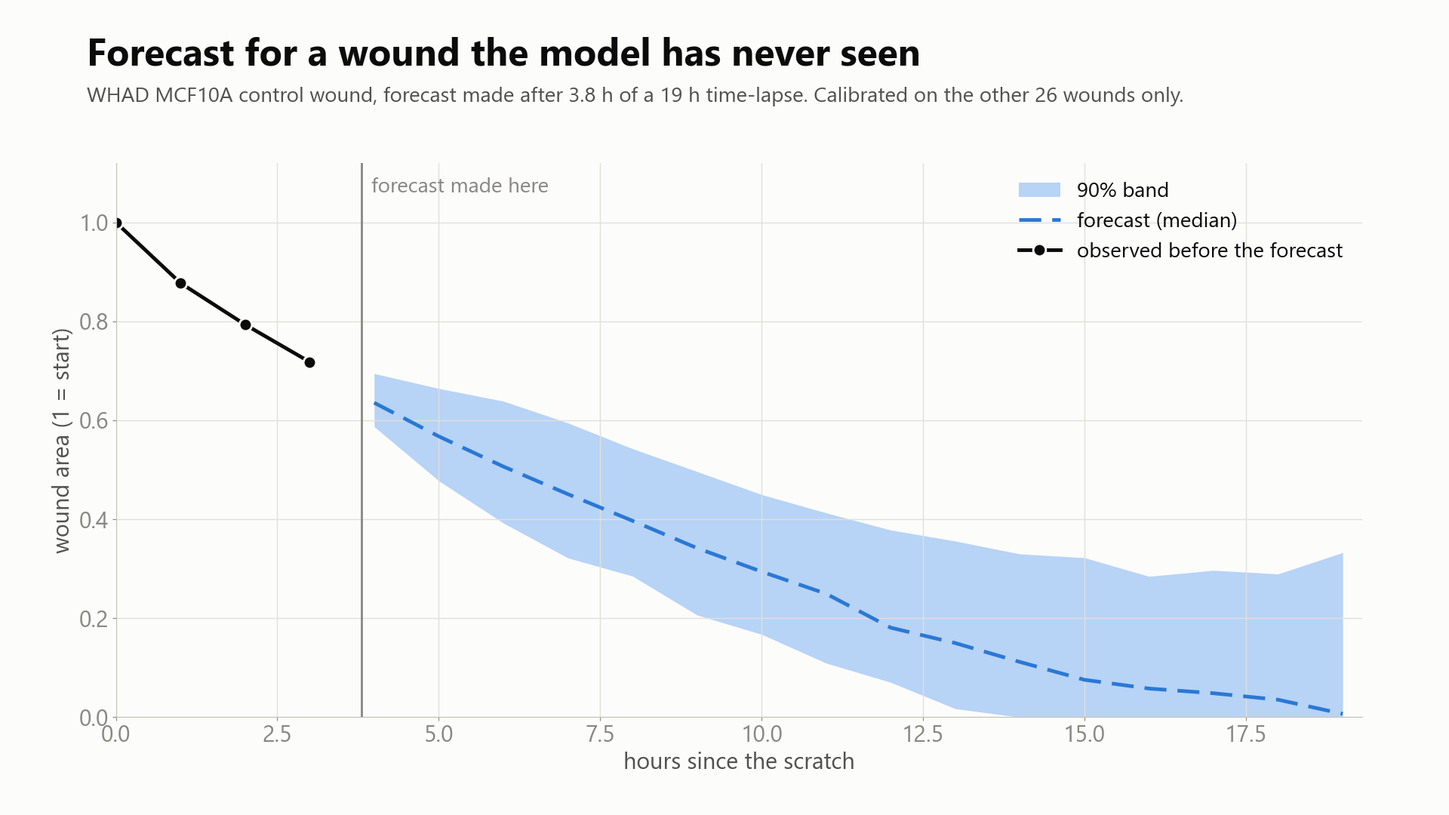
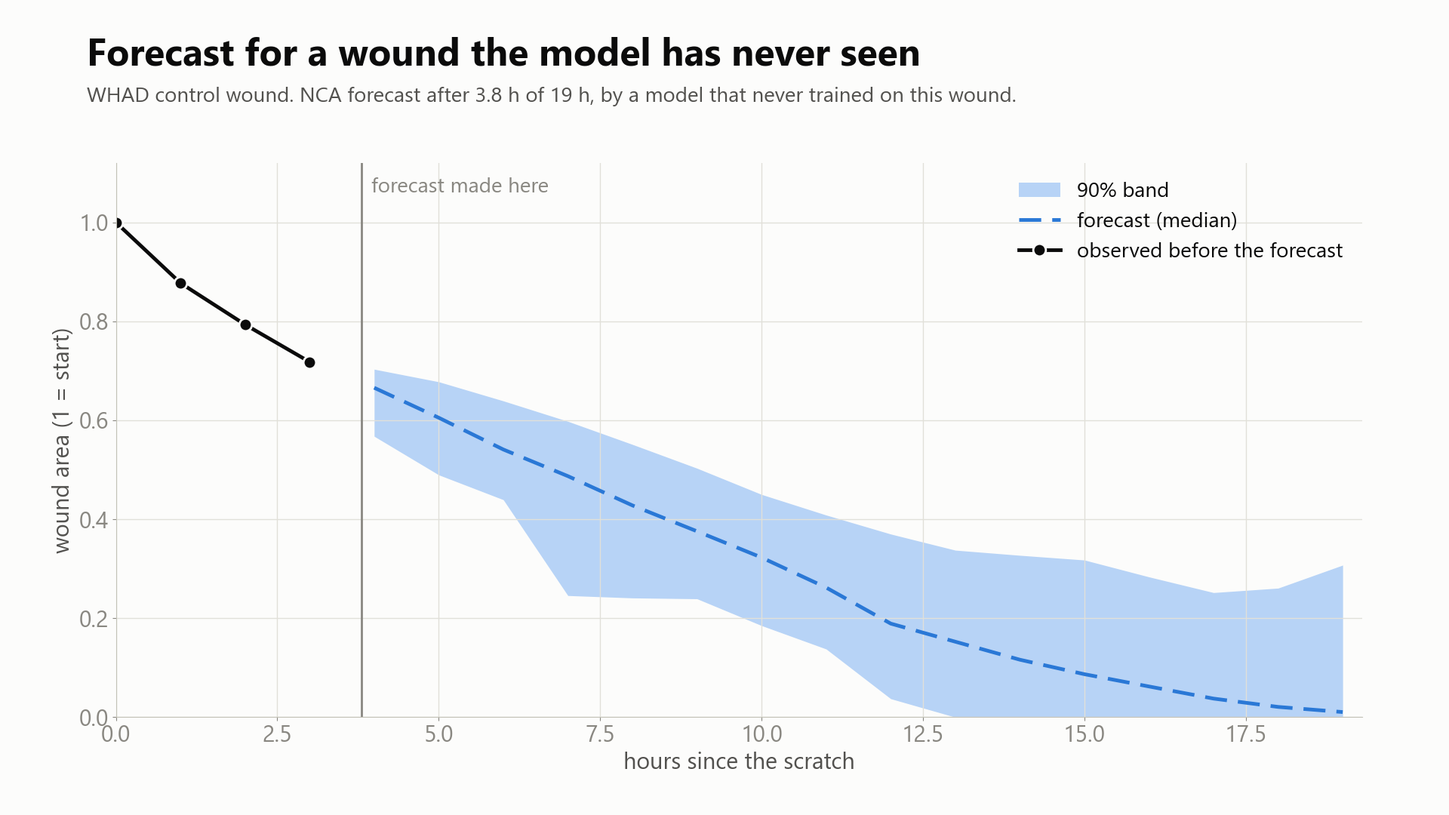
Uploads and the agent now use the real-data NCA (edge speed as fallback)
- data/upload_nca.py: original-rule simulator fit on the uploaded frames (as sim/calibrate.py), 50 members over 3 seed
  models (weights_real3_all_s*.pt; the demo sample uses the fold models that never trained on it), band from the NCA's
  own out-of-fold WHAD residuals; data/upload.py --forecaster nca (default) falls back to edge speed on any failure
- demo samples regenerated: 1/2/3 frames -> P(90% closed by 19 h) 0.13 / 0.43 / 0.77 (it closed; edge speed said 0.23)
- video figures show the shipped NCA (out-of-fold); README, Q&A, video script, design.md R29, decisions
- tests: 12 (adds the NCA upload path)

diff --git a/data/upload_nca.py b/data/upload_nca.py
@@ -1,0 +1,132 @@
+"""NCA forecaster for uploads (design.md R28 follow-up): the real-data NCA v3 behind data/upload.py.
+
+Same pipeline the gate validated (nca/forecast_realft.py), for one uploaded series:
+  params   (Tm, bias) fitted on the uploaded frames with the original simulator rule (sim/calibrate.py: 21 x 6 grid x 3
+           seeds + 50 bootstrap members); 1 frame -> prior = other WHAD wounds' 9.5 h fits
+  model    3 seed models; members split round-robin. exclude_wound set (the demo sample) -> the fold models that never
+           trained on that wound (nca/weights_real3_fold{k}_s{s}.pt); otherwise the all-wounds models (weights_real3_all_s{s}.pt)
+  start    the last uploaded mask -> lattice -> coarse density + reservoir (as in training)
+  band     leave-one-wound-out conformal with the NCA's own held-out residuals on WHAD (nca_realft3_raw files, nearest
+           gate cut-off), aligned by hours since the forecast start; the uploaded wound's own series are never in the pool
+Returns a forecast-contract doc (model nca_realft3) or raises; data/upload.py falls back to edge speed on any error.
+"""
+import json, os, sys, zlib
+import numpy as np
+
+HERE = os.path.dirname(os.path.abspath(__file__))
+ROOT = os.path.join(HERE, "..")
+sys.path[:0] = [os.path.join(ROOT, "sim"), os.path.join(ROOT, "nca"), os.path.join(ROOT, "eval")]
+UM_PER_PX = 0.454 * 4      # upload masks are at 1/4 of WHAD resolution
+HORIZON, H_LONG, N_MEM = 19.0, 100, 50
+GATE_CUTS = [1.9, 3.8, 5.7, 9.5]
+
+
+def fit_params(occ0, t, wf, seed=0):
+    """Original-rule simulator fit on the uploaded frames (needs >= 2 frames on whole hours)."""
+    import calibrate as C
+    from cellsim import Params, simulate
+    fr = np.rint(np.asarray(t) - t[0]).astype(int)
+    err = np.zeros((len(C.TM_GRID), len(C.BIAS_GRID), len(fr)))
+    for i, Tm in enumerate(C.TM_GRID):
+        for j, b in enumerate(C.BIAS_GRID):
+            for s in range(C.SEEDS):
+                r = simulate(occ0, Params(Tm=Tm, bias=b), int(fr[-1]), seed=s)
+                err[i, j] += (r["wound_frac"][fr] - wf) ** 2 / C.SEEDS
+    f = C._fit(fr.astype(float), err, float(fr[-1]), np.random.default_rng(seed), 0)
+    return np.array(f["members"]), f"fit on {len(fr)} frames: Tm {f['Tm']:.2f} h, bias {f['bias']:.2f}"
+
+
+def prior_params(exclude_wound, rng):
+    fits = {**json.load(open(os.path.join(ROOT, "sim/fits/whad_fits.json")))["fits"],
+            **json.load(open(os.path.join(ROOT, "sim/fits/whad_auto_fits.json")))["fits"]}
+    import forecast_baselines as FB
+    S = FB.load("whad")
+    pool = [[f["9.5"]["Tm"], f["9.5"]["bias"]] for p, f in fits.items()
+            if "9.5" in f and p in S and S[p]["wound"] != exclude_wound]
+    return np.array(pool)[rng.integers(len(pool), size=N_MEM)], f"one frame: prior from {len(pool)} WHAD wounds' 9.5 h fits"
+
+
+def nets_for(exclude_wound):
+    from api import load
+    if exclude_wound:
+        k = zlib.crc32(exclude_wound.encode()) % 4
+        paths = [os.path.join(ROOT, f"nca/weights_real3_fold{k}_s{s}.pt") for s in range(3)]
+        which = f"fold {k} models (never trained on {exclude_wound})"
+    else:
+        paths = [os.path.join(ROOT, f"nca/weights_real3_all_s{s}.pt") for s in range(3)]
+        which = "models trained on all WHAD wounds"
+    missing = [p for p in paths if not os.path.exists(p)]
+    if missing:
+        raise FileNotFoundError(f"NCA weights missing: {missing}")
+    return [load(p) for p in paths], which
+
+
+def pool_residuals(cut, exclude_wound):
+    """Per WHAD series: (hours since its forecast start, observed - raw NCA median) from the out-of-fold gate files."""
+    import forecast_baselines as FB
+    c = min(GATE_CUTS, key=lambda x: abs(x - cut))
+    doc = json.load(open(os.path.join(ROOT, f"eval/forecasts/whad/loo_all/nca_realft3_raw_{c:g}h.json")))
+    out = []
+    for f in doc["forecasts"]:
+        if f.get("wound") == exclude_wound or f["wound_id"] in FB.EXCLUDE:
+            continue
+        ot, oa = np.array(f["observed"]["t_hours"]), np.array(f["observed"]["area"])
+        start = ot[ot <= c + 1e-9][-1]
+        ft, med = np.array(f["t_hours"]), np.array(f["area_q50"])
+        out.append((ft - start, np.interp(ft, ot, oa) - med))
+    return out, c
+
+
+def forecast(masks, t, a, wound_frac, exclude_wound=None):
+    import forecast_baselines as FB
+    from api import lattice_to_state, rollout
+    from start_state import mask_to_lattice
+    rng = np.random.default_rng(0)
+    t, a = np.asarray(t, float), np.asarray(a, float)
+    cut = float(t[-1])
+    occs = [mask_to_lattice(m.astype(bool), UM_PER_PX) for m in masks]
+    if len(masks) >= 2:
+        mem, how = fit_params(occs[0], t, np.asarray(wound_frac, float))
+    else:
+        mem, how = prior_params(exclude_wound, rng)
+    nets, which = nets_for(exclude_wound)
+    rho, R = lattice_to_state(occs[-1])
+    n = int(np.ceil(H_LONG - cut))
+    M = mem[np.arange(N_MEM) % len(mem)]
+    wf = np.concatenate([rollout(nets[j], rho, R, M[j::len(nets)], n, stochastic=True, seed=zlib.crc32(f"upload{j}".encode()))
+                         for j in range(len(nets))])
+    wf = wf[np.argsort(np.concatenate([np.arange(j, N_MEM, len(nets)) for j in range(len(nets))]))]
+    grid = cut + np.arange(n + 1)
+    A = a[-1] * wf / wf[:, :1]                      # area relative to the first uploaded frame
+    G = np.arange(np.floor(cut) + 1, HORIZON + 1e-9, 1.0)
+    pred = np.interp(G, grid, np.median(A, 0))
+    pool, c = pool_residuals(cut, exclude_wound)
+    Rz = np.stack([np.interp(G - cut, h, r) for h, r in pool])
+    E = np.clip(pred[None, :] + Rz, 0, None)
+    lq, hq = FB.q_levels(len(E))
+    lo, med, hi = np.quantile(E, [lq, 0.5, hq], axis=0, method="inverted_cdf")
+    ev = {}
+    for lvl, key in FB.EVENTS:
+        seen = FB.event_time(t, a, lvl)
+        if seen is not None:
+            ev[key] = {"median": float(seen), "q05": float(seen), "q95": float(seen), "censored_prob": 0.0}
+            continue
+        hit = E <= lvl
+        times = np.where(hit.any(1), G[hit.argmax(1)], np.inf)
+        q = np.quantile(times, [lq, 0.5, hq], method="inverted_cdf")
+        fin = lambda x: round(float(x), 2) if np.isfinite(x) else None
+        ev[key] = {"median": fin(q[1]), "q05": fin(q[0]), "q95": fin(q[2]), "censored_prob": round(float(np.mean(~np.isfinite(times))), 3)}
+    hit90 = E <= 0.1
+    r4 = lambda x: [round(float(v), 4) for v in x]
+    f = {"wound_id": "upload", "t_hours": r4(G), "area_q05": r4(lo), "area_q50": r4(med), "area_q95": r4(hi),
+         "t50": ev["t50"], "t90": ev["t90"],
+         "p_close_by_T": round(float(np.mean(hit90.any(1))), 3),
+         "p_stall": round(float(np.mean(E[:, -1] >= 0.9 * a[-1])), 3), "flags": [],
+         "segmentation_quality": {"status": "ok", "reasons": []},
+         "observed": {"t_hours": r4(t), "area": r4(a)},
+         "members": [r4(np.interp(G, grid, m)) for m in A[:5]]}
+    return {"version": "1.0", "model": "nca_realft3", "dataset": "upload", "fold": "upload_vs_whad", "cutoff_hours": cut,
+            "level": FB.LEVEL, "p_close_by_T_hours": HORIZON,
+            "notes": (f"NCA fine-tuned on real WHAD frames (v3, design.md R28), {which}; params: {how}; band: NCA's own "
+                      f"out-of-fold residuals on {len(E)} WHAD series at the {c:g} h gate cut-off, aligned by hours since start"),
+            "forecasts": [f]}

diff --git a/data/upload.py b/data/upload.py
@@ -94,7 +94,7 @@ def condition_guard(f, condition, cut):
                                  "calibration did not transfer to a new cell type in our tests."})
 
 
-def run(frames, interval, scale, out, name, exclude_wound=None, condition=None):
+def run(frames, interval, scale, out, name, exclude_wound=None, condition=None, forecaster="nca"):
     os.makedirs(out, exist_ok=True)
     if not interval or not scale:
         doc = {"version": "1.0", "refused": True, "reasons": ["frame interval and pixel scale are required"]}
@@ -120,26 +120,36 @@ def run(frames, interval, scale, out, name, exclude_wound=None, condition=None):
     G = np.arange(np.floor(cut) + 1, HORIZON_H + 1e-9, 1.0)
     G_long = np.arange(G[0], 20 * HORIZON_H, 0.25)
     pool = set(S) - {"upload"}
-    if len(masks) >= 2:
-        doc = FB.forecast_file("upload", "upload_vs_whad", "edge_speed", cut, S, {"upload"}, pool, G, G_long, HORIZON_H)
-    else:  # one frame: no rate measured; use the spread of WHAD wounds' observed curves
-        E = np.stack([np.interp(G, s["t"], s["a"]) for k, s in S.items() if k in pool])
-        lq, hq = FB.q_levels(len(E))
-        lo, med, hi = np.quantile(E, [lq, 0.5, hq], axis=0, method="inverted_cdf")
-        r4 = lambda x: [round(float(v), 4) for v in x]
-        ev = {}
-        for lvl, key in FB.EVENTS:
-            tt = np.array([x if (x := FB.event_time(s["t"], s["a"], lvl)) is not None else np.inf for k, s in S.items() if k in pool])
-            q = np.quantile(tt, [lq, 0.5, hq], method="inverted_cdf")
-            fin = lambda x: round(float(x), 2) if np.isfinite(x) else None
-            ev[key] = {"median": fin(q[1]), "q05": fin(q[0]), "q95": fin(q[2]), "censored_prob": round(float(np.mean(tt > G[-1])), 3)}
-        ev["p"] = float(np.mean([(x := FB.event_time(s["t"], s["a"], 0.1)) is not None and x <= HORIZON_H for k, s in S.items() if k in pool]))
-        doc = {"version": "1.0", "model": "whad_population_prior", "dataset": "upload", "fold": "upload_vs_whad", "cutoff_hours": cut,
-               "level": FB.LEVEL, "p_close_by_T_hours": HORIZON_H, "notes": "one frame: spread of WHAD wounds, no measured closure rate",
-               "forecasts": [{"wound_id": "upload", "t_hours": r4(G), "area_q05": r4(lo), "area_q50": r4(med), "area_q95": r4(hi),
-                              "t50": ev["t50"], "t90": ev["t90"], "p_close_by_T": round(ev["p"], 3), "p_stall": None, "flags": [],
-                              "segmentation_quality": {"status": "ok", "reasons": []},
-                              "observed": {"t_hours": r4(t), "area": r4(a)}}]}
+    doc, fallback = None, None
+    if forecaster == "nca":  # real-data NCA v3 (design.md R28); edge speed if anything fails
+        try:
+            if abs(float(interval) - round(float(interval))) > 1e-6:
+                raise ValueError("the NCA steps hourly; frame interval must be a whole number of hours")
+            import upload_nca
+            doc = upload_nca.forecast(masks, t, a, w, exclude_wound)
+        except Exception as e:  # noqa: BLE001 - any failure falls back to the validated statistical forecaster
+            fallback = f"NCA unavailable ({type(e).__name__}: {e}); edge-speed forecaster used"
+    if doc is None:
+        if len(masks) >= 2:
+            doc = FB.forecast_file("upload", "upload_vs_whad", "edge_speed", cut, S, {"upload"}, pool, G, G_long, HORIZON_H)
+        else:  # one frame: no rate measured; use the spread of WHAD wounds' observed curves
+            E = np.stack([np.interp(G, s["t"], s["a"]) for k, s in S.items() if k in pool])
+            lq, hq = FB.q_levels(len(E))
+            lo, med, hi = np.quantile(E, [lq, 0.5, hq], axis=0, method="inverted_cdf")
+            r4 = lambda x: [round(float(v), 4) for v in x]
+            ev = {}
+            for lvl, key in FB.EVENTS:
+                tt = np.array([x if (x := FB.event_time(s["t"], s["a"], lvl)) is not None else np.inf for k, s in S.items() if k in pool])
+                q = np.quantile(tt, [lq, 0.5, hq], method="inverted_cdf")
+                fin = lambda x: round(float(x), 2) if np.isfinite(x) else None
+                ev[key] = {"median": fin(q[1]), "q05": fin(q[0]), "q95": fin(q[2]), "censored_prob": round(float(np.mean(tt > G[-1])), 3)}
+            ev["p"] = float(np.mean([(x := FB.event_time(s["t"], s["a"], 0.1)) is not None and x <= HORIZON_H for k, s in S.items() if k in pool]))
+            doc = {"version": "1.0", "model": "whad_population_prior", "dataset": "upload", "fold": "upload_vs_whad", "cutoff_hours": cut,
+                   "level": FB.LEVEL, "p_close_by_T_hours": HORIZON_H, "notes": "one frame: spread of WHAD wounds, no measured closure rate",
+                   "forecasts": [{"wound_id": "upload", "t_hours": r4(G), "area_q05": r4(lo), "area_q50": r4(med), "area_q95": r4(hi),
+                                  "t50": ev["t50"], "t90": ev["t90"], "p_close_by_T": round(ev["p"], 3), "p_stall": None, "flags": [],
+                                  "segmentation_quality": {"status": "ok", "reasons": []},
+                                  "observed": {"t_hours": r4(t), "area": r4(a)}}]}
     f = doc["forecasts"][0]
     f["segmentation_quality"] = {"status": "ok", "reasons": []}
     f["flags"] = []
@@ -150,6 +160,8 @@ def run(frames, interval, scale, out, name, exclude_wound=None, condition=None):
         f["flags"].append({"type": "stall", "reason": f"{100 * f['p_stall']:.0f}% of plausible futures close less than 10% more "
                            f"by {HORIZON_H:g} h (flag threshold {th:.2f}, tuned leave-one-wound-out on WHAD)."})
     condition_guard(f, condition, cut)
+    if fallback:
+        doc["notes"] = (doc.get("notes", "") + " | " + fallback).strip(" |")
     doc["schedule"] = schedule_advice(f["p_close_by_T"], cut)
     doc["notes"] = (doc.get("notes", "") + f" | frames={len(masks)}, interval={interval} h, scale={scale} um/px, "
                     f"wound at first frame {100 * w[0]:.1f}% of field").strip(" |")
@@ -190,10 +202,10 @@ if __name__ == "__main__":
     warnings.filterwarnings("ignore")
     ap = argparse.ArgumentParser()
     ap.add_argument("--frames", nargs="+"); ap.add_argument("--interval", type=float); ap.add_argument("--scale", type=float)
-    ap.add_argument("--condition", default=None, help="e.g. CC; outside CC/C61/N61/NC -> widened band + flag"); ap.add_argument("--out", default="upload_out"); ap.add_argument("--name", default="upload"); ap.add_argument("--samples", action="store_true")
+    ap.add_argument("--forecaster", choices=["nca", "edge_speed"], default="nca"); ap.add_argument("--condition", default=None, help="e.g. CC; outside CC/C61/N61/NC -> widened band + flag"); ap.add_argument("--out", default="upload_out"); ap.add_argument("--name", default="upload"); ap.add_argument("--samples", action="store_true")
     a = ap.parse_args()
     if a.samples:
         samples()
     else:
-        d = run(a.frames[:5], a.interval, a.scale, a.out, a.name, condition=a.condition)
+        d = run(a.frames[:5], a.interval, a.scale, a.out, a.name, condition=a.condition, forecaster=a.forecaster)
         print(json.dumps({k: d[k] for k in ("refused", "reasons") if k in d}) if d.get("refused") else f"forecast -> {a.out}/{a.name}.json")

diff --git a/eval/video_figures.py b/eval/video_figures.py
@@ -18,6 +18,7 @@ import score_forecasts as sf
 HERE = os.path.dirname(os.path.abspath(__file__))
 OUT = f"{HERE}/figures/video"
 WOUND, CUT = "exp1_partII_CC_P2", 3.8
+SHIPPED = "nca_realft3"  # the forecaster the upload/agent path uses (design.md R29)
 SURF, INK, INK2, MUTED, GRID, AXIS = "#fcfcfb", "#0b0b0b", "#52514e", "#898781", "#e1e0d9", "#c3c2b7"
 BLUE, ORANGE, AQUA, GREEN, VIOLET, BAND, RED = "#2a78d6", "#eb6834", "#1baf7a", "#008300", "#6250d6", "#b7d3f6", "#d03b3b"
 plt.rcParams.update({
@@ -35,7 +36,7 @@ def fig(title, sub):
 
 
 def wound_panels():
-    doc = json.load(open(f"{HERE}/forecasts/whad/loo_all/edge_speed_{CUT:g}h.json"))
+    doc = json.load(open(f"{HERE}/forecasts/whad/loo_all/{SHIPPED}_{CUT:g}h.json"))  # out-of-fold: never trained on WOUND
     f = next(x for x in doc["forecasts"] if x["wound_id"] == WOUND)
     t, a = np.array(f["observed"]["t_hours"]), np.array(f["observed"]["area"])
     ft = np.array(f["t_hours"]); lo, med, hi = (np.array(f[k]) for k in ("area_q05", "area_q50", "area_q95"))
@@ -44,8 +45,7 @@ def wound_panels():
     for name, reveal in (("1_forecast", False), ("2_reveal", True)):
         title = ("Forecast for a wound the model has never seen" if not reveal
                  else f"What actually happened: inside the band at {inside} of {fut.sum()} later frames")
-        F, ax = fig(title, "WHAD MCF10A control wound, forecast made after 3.8 h of a 19 h time-lapse. "
-                           "Calibrated on the other 26 wounds only.")
+        F, ax = fig(title, "WHAD control wound. NCA forecast after 3.8 h of 19 h, by a model that never trained on this wound.")
         ax.fill_between(ft, lo, hi, color=BAND, lw=0, label="90% band")
         ax.plot(ft, med, color=BLUE, ls=(0, (6, 3)), label="forecast (median)")
         ax.plot(t[~fut], a[~fut], color=INK, marker="o", mec=SURF, mew=2, label="observed before the forecast")
@@ -62,9 +62,9 @@ def wound_panels():
 
 def scorecard(S):
     g = S[(S.dataset == "whad") & (S.split == "loo_all") & (S.cutoff_h.round(2) == CUT)].set_index("model")
-    rows = [("edge_speed", "Edge speed (2-parameter model)", BLUE), ("nca_realft", "NCA fine-tuned on real frames", VIOLET),
+    rows = [("edge_speed", "Edge speed (2-parameter model)", BLUE), ("nca_realft3", "NCA fine-tuned on real frames (shipped)", VIOLET),
             ("nca_ensemble", "NCA trained on the simulator only", GREEN), ("lvcf", "Typical-wound curve", MUTED)]
-    F, ax = fig("Trained on real frames, the NCA passes our pre-set gate",
+    F, ax = fig("Trained on real frames, the NCA matches the best simple model",
                 "Unseen WHAD wounds (27), forecast after 3.8 h. Quantile score: lower is better. All with the same calibration.")
     best = g.loc["edge_speed", "qscore"]
     ax.axvline(1.1 * best, color=RED, lw=2.5, ls=(0, (6, 3)))
@@ -103,7 +103,7 @@ def calibration(S):
 
 
 def failure():
-    doc = json.load(open(f"{HERE}/forecasts/whad/loo_all/edge_speed_{CUT:g}h.json"))
+    doc = json.load(open(f"{HERE}/forecasts/whad/loo_all/{SHIPPED}_{CUT:g}h.json"))
     scored = [(sf.score_series(f, CUT, 19.0) or {}).get("qscore", -1) for f in doc["forecasts"]]
     f = doc["forecasts"][int(np.argmax(scored))]
     t, a = np.array(f["observed"]["t_hours"]), np.array(f["observed"]["area"]); ft = np.array(f["t_hours"])

diff --git a/tests/test_pipeline.py b/tests/test_pipeline.py
@@ -102,3 +102,12 @@ def test_uncalibrated_condition_is_flagged_and_widened(tmp_path):
     width = lambda f: np.mean(np.array(f["area_q95"]) - np.array(f["area_q05"]))
     assert not any(x["type"] == "uncalibrated_condition" for x in known["flags"])
     assert any(x["type"] == "uncalibrated_condition" for x in new["flags"]) and width(new) >= width(known)
+
+
+def test_upload_uses_the_nca_on_the_demo_sample(tmp_path):
+    pytest.importorskip("torch")
+    import upload
+    frames = [os.path.join(ROOT, "web", "data", "samples", f"sample_frame{k}.png") for k in (1, 2, 3)]
+    doc = upload.run(frames, 1, 0.908, str(tmp_path), "nca", exclude_wound="exp1_pos2033", forecaster="nca")
+    assert doc["model"] == "nca_realft3" and "never trained on exp1_pos2033" in doc["notes"]
+    assert validate.problems(doc) == []

diff --git a/docs/design.md b/docs/design.md
@@ -250,3 +250,4 @@ Still to confirm: overnight work and the demo/video rule with organisers (P3 ema
 - R27 (15 Nov, P1, #19): identifiability test (eval/jin_identifiability.py): Fisher-KPP fitted to Jin 2016 PC-3 profiles over a (D, r) grid. Full profiles identify both (D within ~20%, r within one grid step, R^2 0.90-0.95; D rises with density 271-1077 um^2/h); the closure curve alone does not (D 9-63x, r 2-39x, constant-front-speed valley). Confirms 5.2 / 11: no movement-vs-division claim from wound area.
 - R27 (14 Nov, P3, addressing P2's PR review): stall scored on the flags.py truth, plus wrong closure call, missed stall and missed non-closer; adversarial expected outcomes match the code (wrong scale flagged; out-of-order only with a P1 order check); simulator and NCA bands labelled uncalibrated, only the data/upload.py band called 90%; Draw = cell-agent engine under a preset, no band, no agent; "likely to close" stop marked untested; live calls from schedule_advice, replay at the four checks; Intake limited to fields that feed code plus scope checks, extraction shown next to the source; Investigator needs a new sim/ helper; refusal and stall force their decisions; Critic constants matched with units; per-run step and token limits; 3b conditional (06:00 Sun); 9c go or no-go by 03:00 Sun.
 - R28 (15 Nov, P1, #92): NCA real-data v2/v3 + calibration v4. v2 = params matched to the forecast cut-off (fits on frames <= cut instead of the 9.5 h fit), 3-seed ensemble per fold, loss weighted to the closure curve (w_anorm 3, w_mse 0.5). v3 = v2 with the training param lookup fixed so no training start sees a fit of its scored frames (review #92); v3 is the headline (cleanest), v2 an ablation. Unseen wounds (loo_all): v3 0.0530 / 0.0397 / 0.0353 / 0.0289 vs edge speed 0.0562 / 0.0386 / 0.0327 / 0.0332 at 1.9 / 3.8 / 5.7 / 9.5 h: best of all models at 1.9 h and 9.5 h; gate 9/12 (v2 10/12). Held-out condition still under-covered (CC to C61: 0.81 at 1.9 h, 0.72 at 9.5 h). v4 (calibration only, reported next to the pre-registered CC_to_C61, not instead): rest_to_C61 = calibrate on all non-C61 conditions -> NCA 9.5 h coverage 0.72 -> 0.90; rest_to_C61_infl = also widen by the largest leave-one-condition-out factor among CC/N61/NC (cap 3x, fixed before seeing C61) -> 1.9 h 0.85 but over-wide later (0.99 at 3.8 h). Inflation ships only as a safety fallback: uploads with a condition outside CC/C61/N61/NC get the widened band and an `uncalibrated_condition` flag (new contract flag type). Factors: eval/results/condition_shift.json.
+- R29 (15 Nov, P1, user decision): the upload/agent path (data/upload.py, called by the agent's QC-and-forecast helper) now uses the real-data NCA v3 (data/upload_nca.py): params fitted on the uploaded frames with the original simulator rule (as sim/calibrate.py), 50 members over 3 seed models (all-wounds weights; the demo sample uses the fold models that never trained on it), band = leave-one-wound-out conformal with the NCA's own out-of-fold WHAD residuals. Edge speed is the automatic fallback (no torch, non-hourly frames, any error; noted in the file). Supersedes R18's 'edge speed ships' for the product path; 9b's 'calibrated edge-speed forecast' now reads 'real-data NCA, edge-speed fallback'. Demo sample: 3 frames -> P(90% closed by 19 h) 0.77 (it closed) vs 0.23 with edge speed.

diff --git a/README.md b/README.md
@@ -10,7 +10,7 @@ Scratch (wound-healing) assays are used across cancer migration, fibrosis, wound
 
 ## What we built
 
-- **Forecaster**: from the first few hours of a time-lapse (1 to 5 frames are enough to start), Stitch forecasts the rest of the closure curve with a **90% band**, time to 50% and 90% closed with ranges, and P(closed by the end of the run).
+- **Forecaster**: from the first few hours of a time-lapse (1 to 5 frames are enough to start), the real-data NCA forecasts the rest of the closure curve with a **90% band**, time to 50% and 90% closed with ranges, and P(closed by the end of the run).
 - **Honest calibration**: every band is calibrated leave-one-wound-out, so a wound's own outcome never shapes its own forecast. On 27 unseen WHAD wounds the 90% band contains 92% of what actually happens.
 - **Stall flag**: warns when a wound is unlikely to close much further (AUC 0.78-0.90, thresholds tuned on other wounds only).
 - **Stop-early advice**: on held-out wounds, 82% get a call at the first check (1.9 h); 91% of those calls are right, against 75% for always saying "won't close". Every early call is "won't reach 90% closure by 19 h"; we never confidently call early closure.
@@ -21,7 +21,7 @@ Scratch (wound-healing) assays are used across cancer migration, fibrosis, wound
 ## How it works
 
 1. **Data -> curves.** Wound masks (authors' or our texture segmenter) give wound area per frame, relative to the first frame.
-2. **Forecast.** The shipped forecaster is a constant-edge-speed model (the wound edge moves at a fitted speed: 2 parameters), chosen because it beat every alternative on held-out wounds at early cut-offs.
+2. **Forecast.** The shipped forecaster is a neural cellular automaton (NCA) fine-tuned on real WHAD frames: per-wound speed parameters are fitted from the uploaded frames, then 50 stochastic rollouts from three models. A constant-edge-speed model (2 parameters) is the automatic fallback, and the baseline every model is scored against.
 3. **Calibrate.** For each wound, the forecast errors of all *other* wounds are added to its forecast to form an ensemble; its quantiles are the 90% band (leave-one-wound-out conformal). Times to 50%/90% closure use the same idea on time ratios.
 4. **Flag and advise.** Stall probability from the calibrated ensemble; stop-early advice from P(90% closed by 19 h).
 5. **Cell layer.** A lattice cell-agent simulator (Migliaccio et al. 2023 rules plus density-dependent movement) is fitted to each wound's early frames; a mass-conserving NCA trained on 3000 simulator runs emulates it fast enough for the browser.

diff --git a/docs/video-script-draft.md b/docs/video-script-draft.md
@@ -8,7 +8,7 @@ Draft by P1 from the real results; Joanne owns the final script (`docs/video-scr
 | **0:12-0:30** Draw | Draw mode: draw a wound, cells close it, zoom out from cells to the density map and wound outline. Chip: "simulated cells, not tracked" | "Draw a wound and watch it heal. These cells are simulated. A neural cellular automaton, fine-tuned on real wound videos, emulates our cell model fast enough to run in the browser." |
 | **0:30-0:58** Assay | Upload 3 real frames (the sample wound). QC passes; flash a blurred frame being refused. Forecast curve with 90% band. Agent timeline, decision card: "image again at 3.8 h", then approve | "Now a real experiment. Upload three frames. Stitch checks each one and refuses bad images. It finds the wound and forecasts the rest of the closure with a 90% band. The agent proposes the next step. Every number on screen comes from a tool, and a person approves anything that can't be undone." |
 | **0:58-1:08** Validation | `eval/figures/video/1_forecast.png`, then `2_reveal.png` | "Here's a wound the model never saw. After 3.8 hours we forecast the rest. Here's what happened: inside the band at 15 of 16 frames." |
-| **1:08-1:20** Scorecard | `3_scorecard.png` | "On 27 unseen wounds, a simple edge-speed model is hard to beat. Our automaton trained only on simulation failed our pre-set test. Fine-tuned on real frames, it passes, within 4%." |
+| **1:08-1:20** Scorecard | `3_scorecard.png` | "On 27 unseen wounds, a simple edge-speed model is hard to beat. Our automaton trained only on simulation failed our pre-set test. Fine-tuned on real frames, it matches it, and beats it at the earliest forecast. That's the model Stitch uses." |
 | **1:20-1:32** Honesty | `4_calibration.png`, then `5_failure.png` | "The 90% band holds on new wounds: 92%. Not on a new cell type: 58%, so you calibrate per cell line. And it misses wounds that suddenly speed up." |
 | **1:32-1:48** Ops | Ops mode: run log table, agent scoreboard vs fixed schedule and simple rules. Label: "replay on held-out wounds, simulated lab" | "In replay on held-out wounds, early calls that a wound won't close were right 91% of the time, against 75% for always guessing, freeing plate time. Every step is logged." |
 | **1:48-2:00** Close | Repo link, datasets, team | "Stitch: early, honest forecasts for wound-healing assays. Research use only. Open data, open code." |

diff --git a/docs/video-assets.md b/docs/video-assets.md
@@ -8,7 +8,7 @@ The example wound (`exp1_partII_CC_P2`, a WHAD control wound) is the same wound 
 |---|---|---|---|
 | 1 | 5 | `1_forecast.png` | "Here's a wound the model has never seen. After 3.8 hours, Stitch forecasts the rest, with a 90% band." |
 | 2 | 5 | `2_reveal.png` (cut or fade from 1) | "Here's what actually happened: inside the band at 15 of 16 later frames." |
-| 3 | 8 | `3_scorecard.png` | "Across 27 unseen wounds, a simple edge-speed model is hard to beat. Our neural cellular automaton, trained only on simulation, failed our pre-set test. Fine-tuned on real frames, it passes, within 4%." |
+| 3 | 8 | `3_scorecard.png` | "Across 27 unseen wounds, a simple edge-speed model is hard to beat. Our neural cellular automaton, trained only on simulation, failed our pre-set test. Fine-tuned on real frames, it matches it, and beats it at the earliest forecast." |
 | 4 | 7 | `4_calibration.png` | "The band is honest: about 90% on new wounds and a new condition. But not on a new cell type: 58%. So Stitch must be calibrated per cell line, and we say so." |
 | 5 | 6 | `5_failure.png` | "And here's where it fails: a wound that's slow at first, then suddenly speeds up." |
 
@@ -21,7 +21,7 @@ The example wound (`exp1_partII_CC_P2`, a WHAD control wound) is the same wound 
 | Claim | Number | Source |
 |---|---|---|
 | Band holds on unseen wounds | 92% (target 90%) | results.md, headline |
-| Edge speed vs fine-tuned NCA at 3.8 h | 0.0386 vs 0.0403 (+4%) | results.md, gate table |
+| Edge speed vs fine-tuned NCA (v3) | 3.8 h: 0.0386 vs 0.0397 (+3%); 1.9 h: 0.0562 vs 0.0530 (NCA better) | results.md, gate table |
 | Simulator-only NCA | 0.0499 (+29%, failed) | results.md, gate table |
 | New cell type | 58% coverage | results.md, calibration |
 | Stop-early calls | 82% called at 1.9 h, 91% right (95% with real-data NCA) vs 75% always-no | results.md, stop early |

diff --git a/docs/qa-prep.md b/docs/qa-prep.md
@@ -49,6 +49,8 @@ Frames -> texture segmenter (wound = low-texture region) -> wound area curve -> 
 "Trained only on our simulator, it failed our pre-set gate. Fine-tuned on real WHAD frames, with 4 wound-level folds so no wound is forecast by a model that trained on it, it passes. Our cleanest version beats every model at the earliest cut-off (1.9 h: 0.0530 vs 0.0562 for edge speed) and at 9.5 h, and is within a few percent in between. What made it work: training on real frames, giving it the same early parameter estimates it gets at forecast time, and averaging three training runs. Adding a second dataset (Zaritsky) made it worse, so we didn't."
 _Earlier answer (simulator-only NCA):_
 "Our neural cellular automaton is trained on our cell-agent simulator and given the same leave-one-wound-out calibration as the baselines. At 3.8 h it is 29% worse than the 2-parameter edge-speed model (quantile score 0.0495 vs 0.0385), so by our own pre-set gate the statistical forecaster ships. The NCA catches up with more history: by 9.5 h it ties or beats every baseline on all three splits. It matches the simulator within 7% everywhere, so its value is speed: it is the fast emulator behind the draw-a-wound tool, labelled as an emulator."
+**Which model does the product use?** "The real-data NCA. When a scientist uploads frames, we fit the wound's speed parameters from those frames, roll out the NCA 50 times and calibrate the band with its own errors on held-out wounds. If anything fails, it falls back to the simple edge-speed model and says so in the output."
+
 **Why not just trust the NCA's own spread?** "Uncalibrated, its 90% band covers 14% of what happens (the simulator's 21%): member spread is too small. The same conformal step brings both to 93%."
 
 **Is anything live?**

diff --git a/docs/decisions.md b/docs/decisions.md
@@ -72,3 +72,6 @@ Legend: DECIDED = user said so; PROPOSED = our recommendation, not yet confirmed
 ## 2026-11-15 01:30 [randodeh] NCA v2/v3 and calibration v4 (R28 in design.md)
 - RESULT: NCA real-data v3 (headline) beats every model at 1.9 h and 9.5 h on unseen wounds; within 3-8% of edge speed at 3.8/5.7 h.
 - DECIDED: calibrate held-out conditions on all other known conditions; band inflation + `uncalibrated_condition` flag only for unknown conditions in uploads.
+
+## 2026-11-15 02:00 [randodeh] Upload/agent forecaster = real-data NCA (R29 in design.md)
+- DECIDED: data/upload.py uses the NCA v3 (fallback edge speed). Agent and demo samples pick it up automatically.
